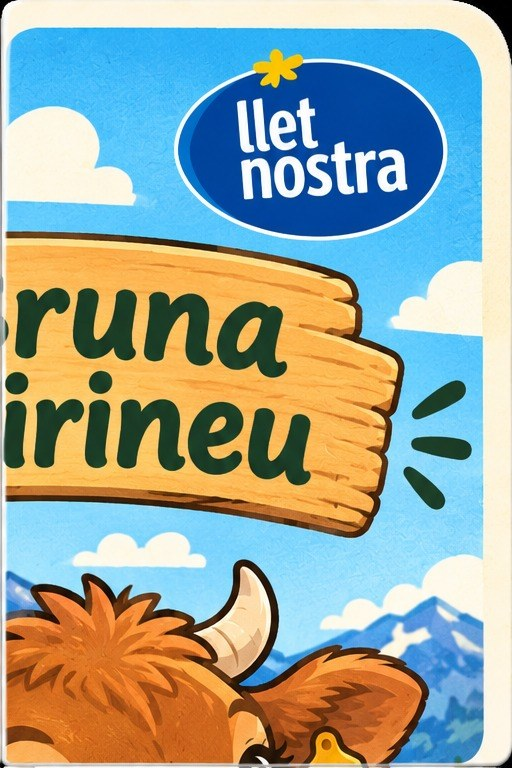
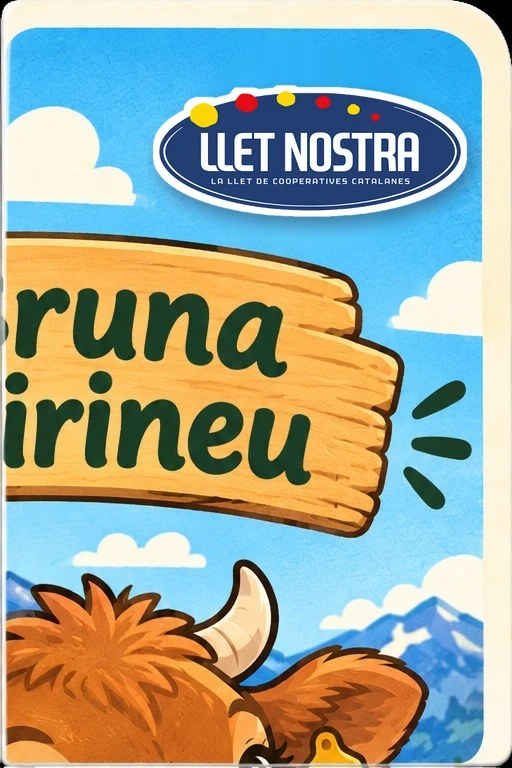
Nova imatge de la Bruna del Pirineu

Changed region(s): [[0.2812, 0.0625, 0.9375, 0.3125]]

diff --git a/index.html b/index.html
@@ -409,7 +409,7 @@ function videoLinks(id){
       <span style="background:${x.bg}">${x.ic}</span>${x.nom}<small>Veure el ${x.tipus}</small></a>`).join('')}</div>
   </div>`;
 }
-const img = (id,i) => `cromos/${id}${i?'_'+i:''}.jpg?v=3`;
+const img = (id,i) => `cromos/${id}${i?'_'+i:''}.jpg?v=4`;
 
 const KEY='bonpreu-cromos-v2';
 const fresh = () => ({pieces:Object.fromEntries(CROMOS.map(c=>[c.id,[0,0,0,0]])), saldo:0, saldoEsclat:0, first:true, mesos:0, unlocked:[], log:[], ident:'app'});
